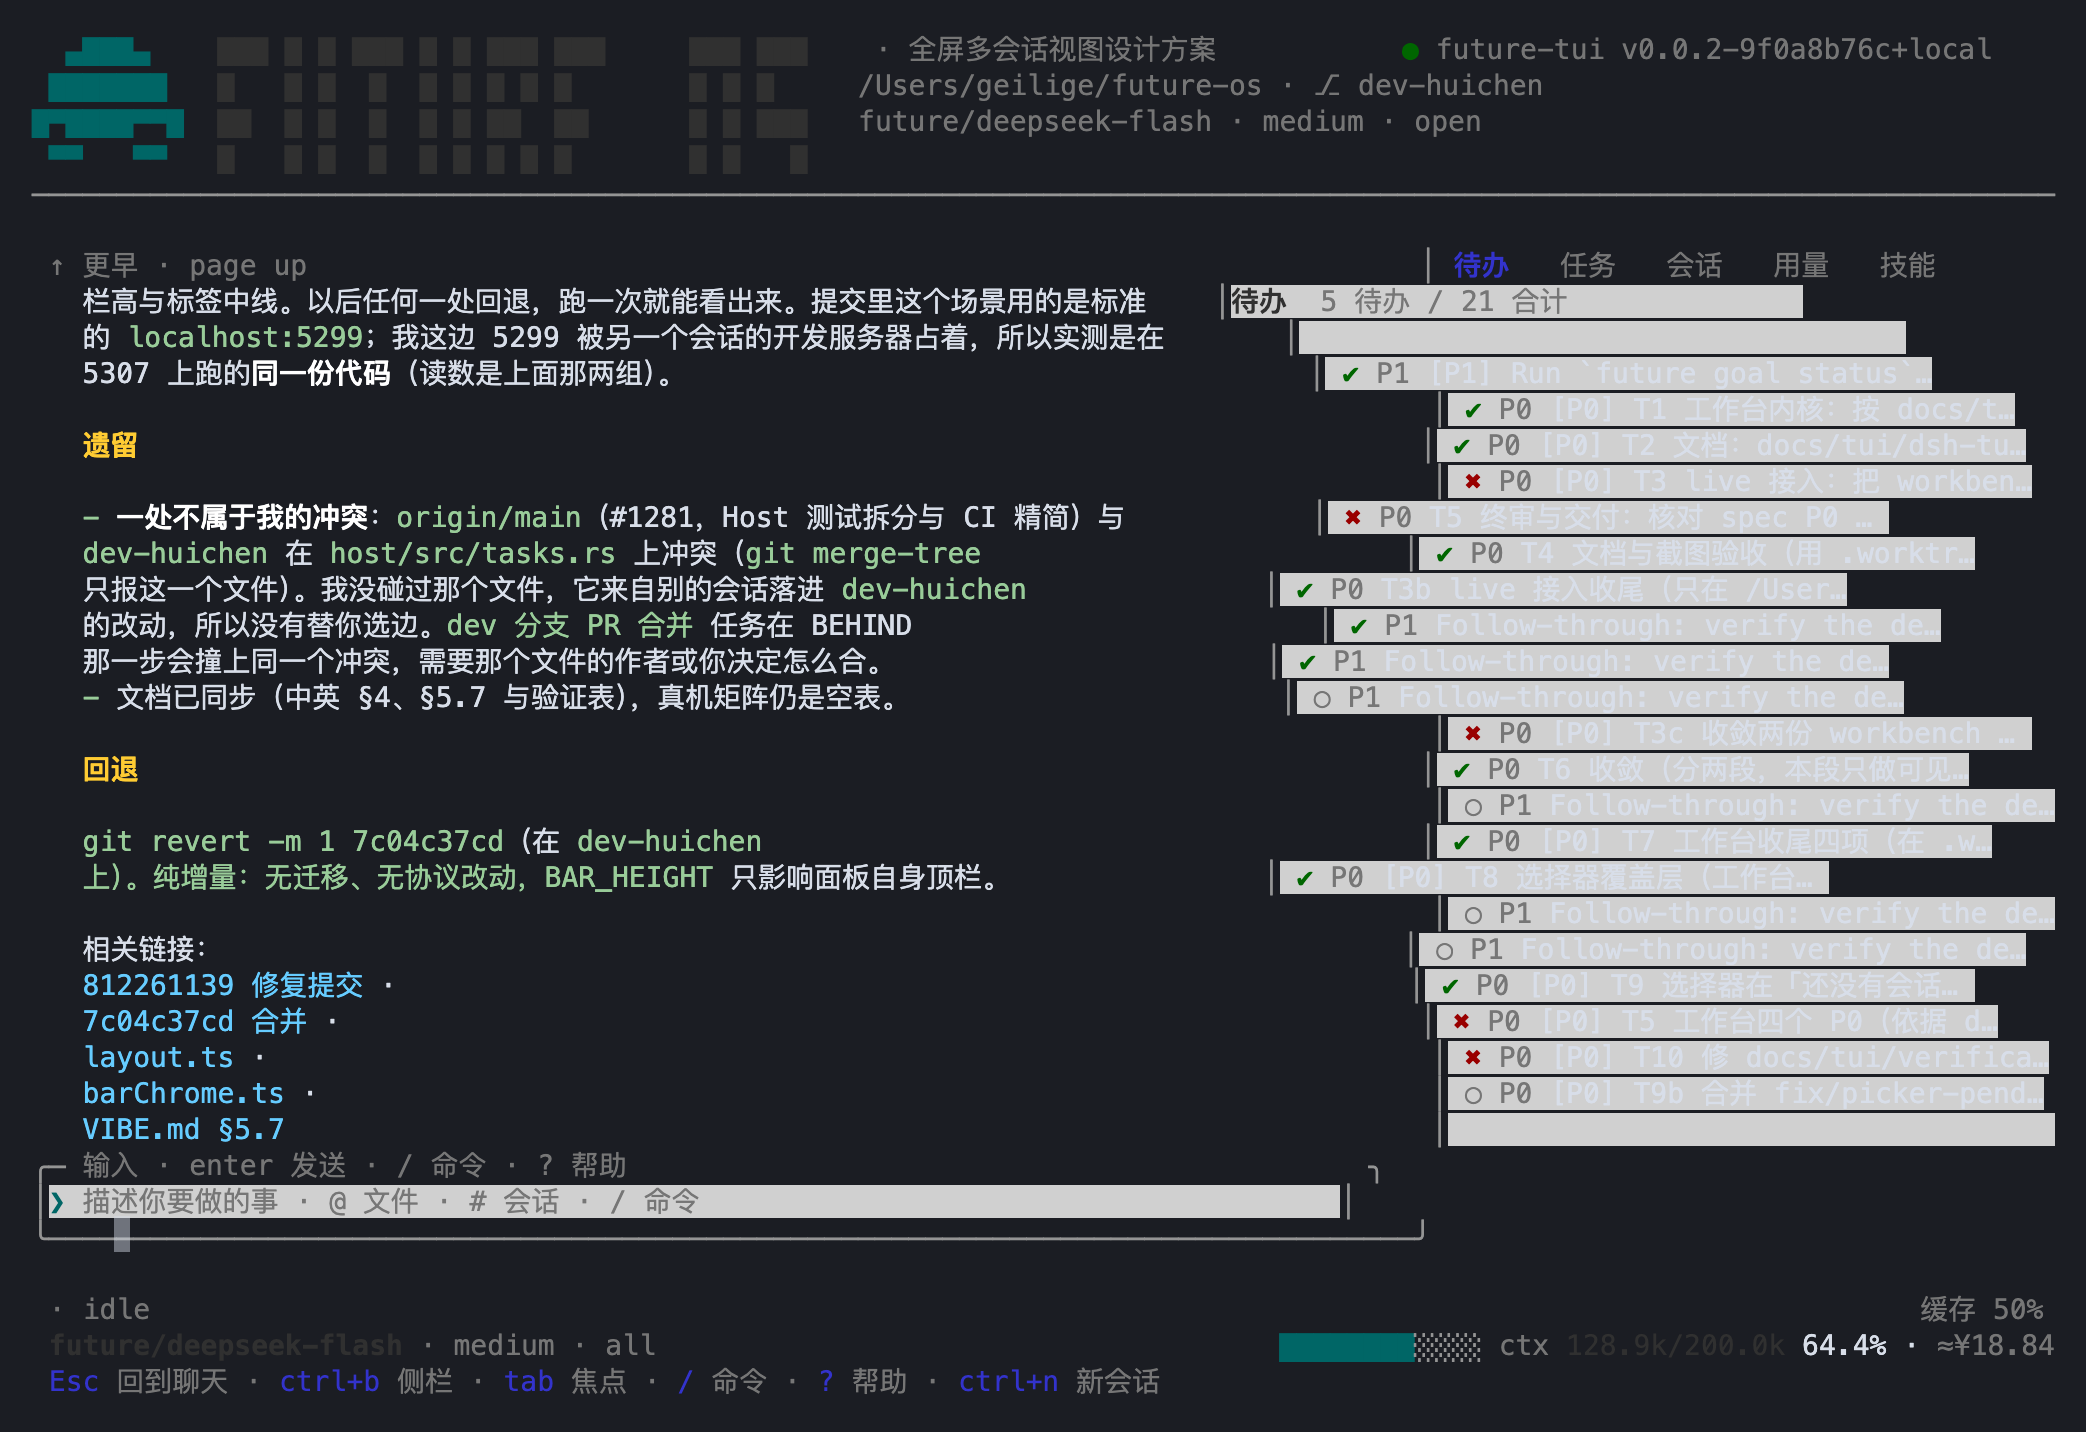
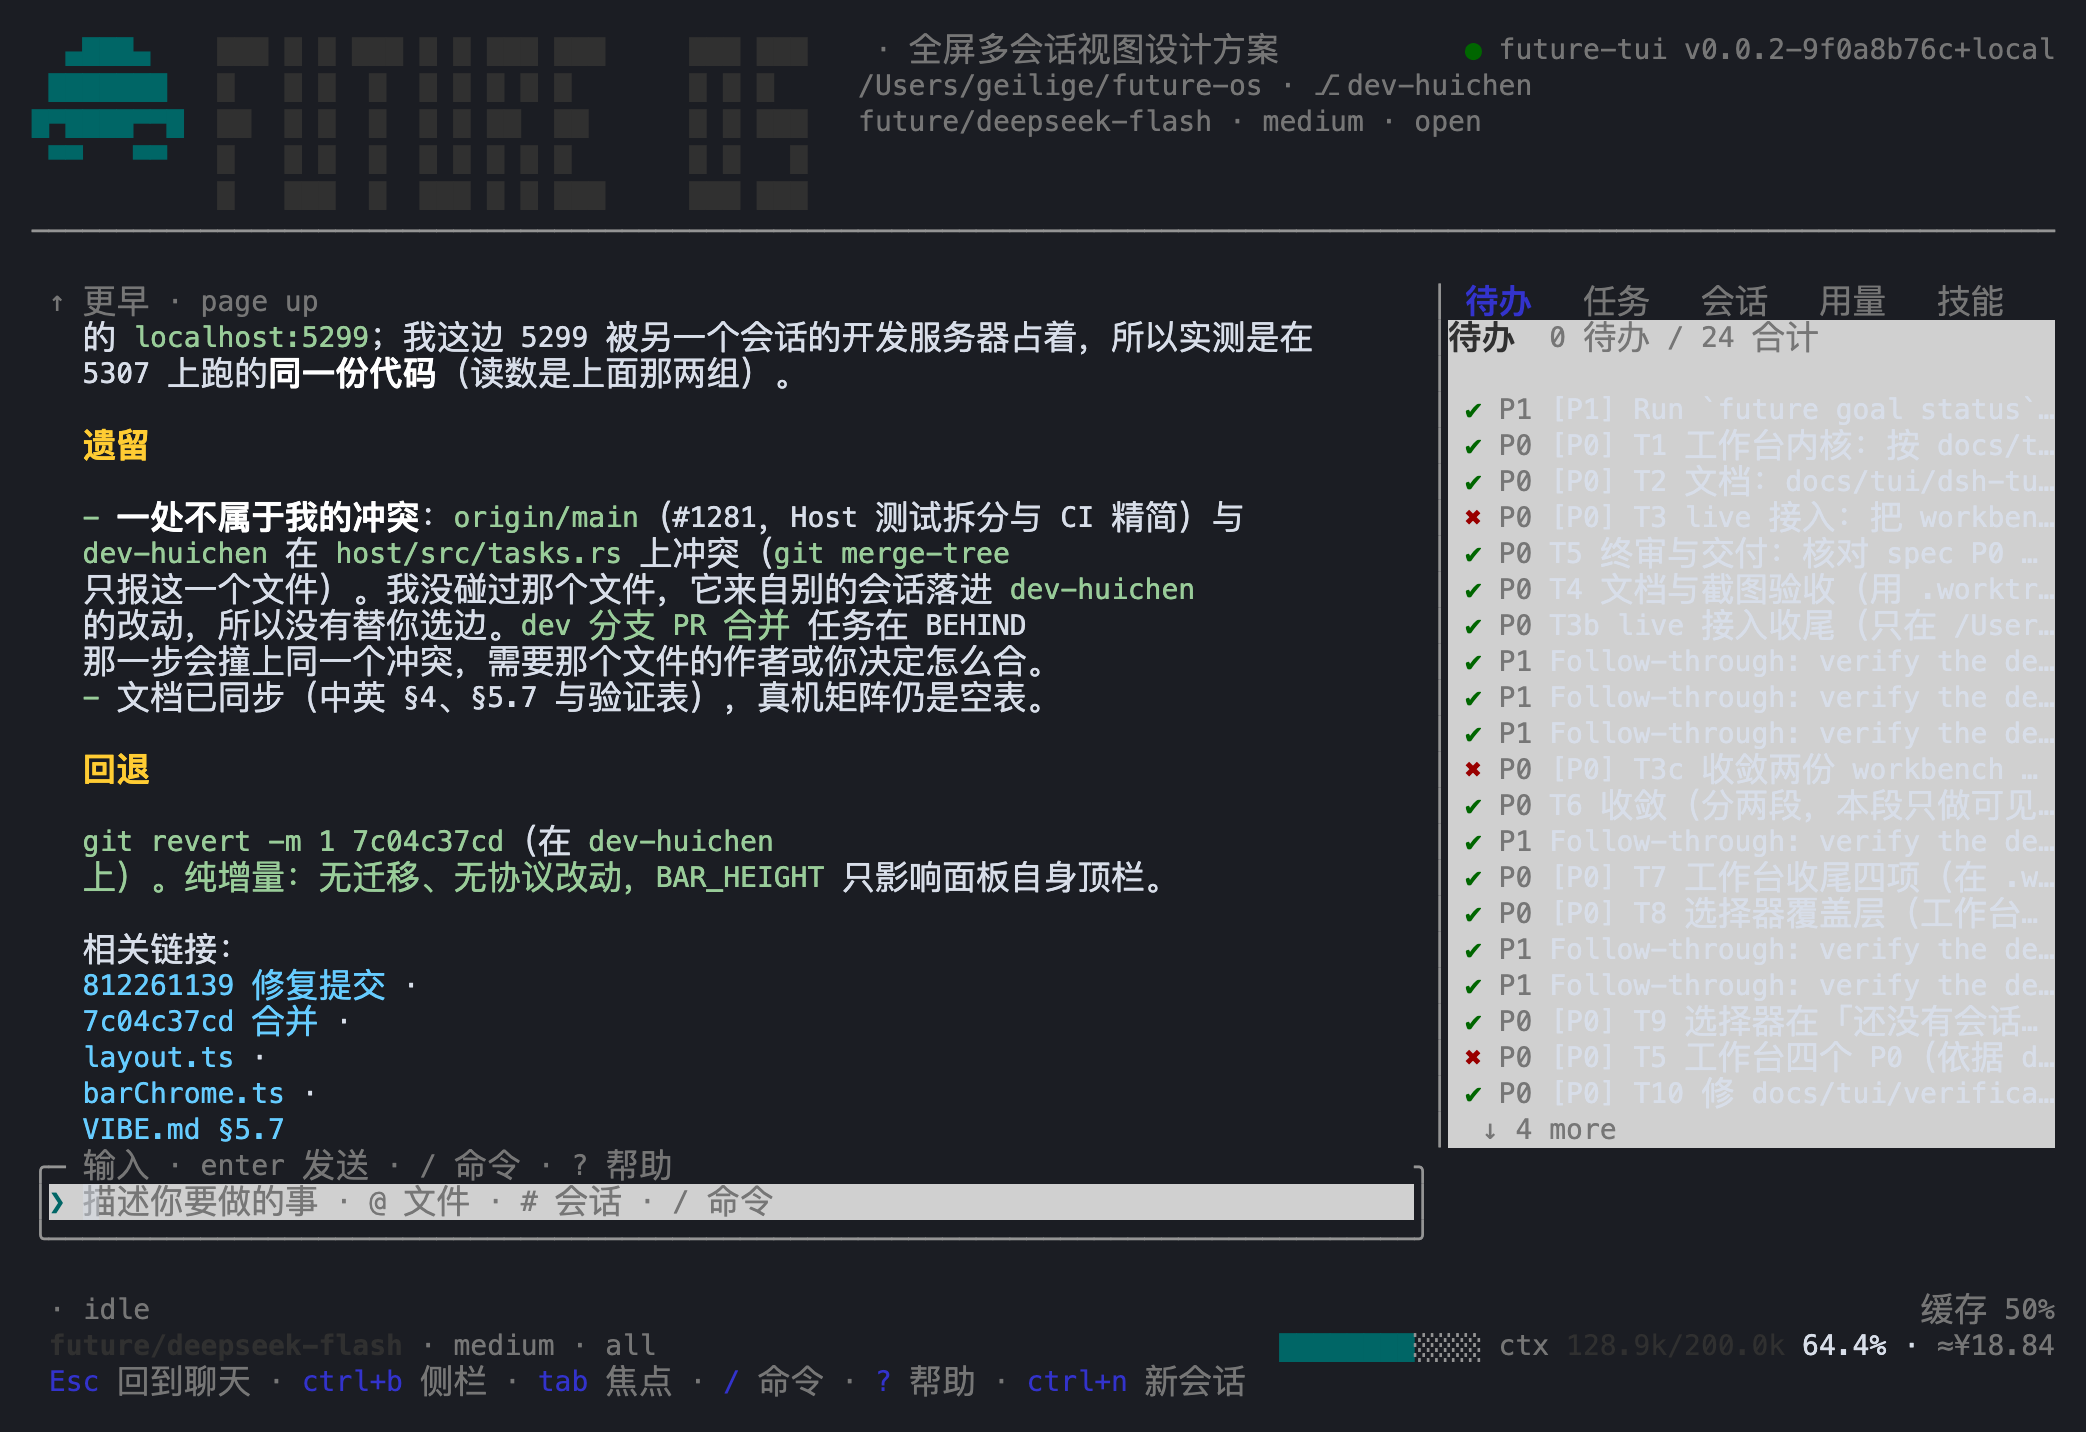
fix(screenshots): measure a wide cell over its two columns, and both directions
The alignment gate had two defects, one blocking and one silent.

Blocking: it measured every cell as one column wide, so a right-leaning
full-width glyph read as "no ink in its own cell". `（` sits on the right of its
em, and every live frame containing a Chinese parenthesis was refused — the four
P0 fixes could not be re-shot at all.

Silent: "every character cell has ink" cannot see a shift. A row pushed sideways
by a whole cell still leaves each character's box partly inked, so the gate said
"aligned" for a frame with a deliberately shifted row. It now also requires that
a cell the grid leaves blank carries no glyph, with the threshold measured on a
trusted frame (worst blank cell: 11%) and a negative control proving a one-cell
shift is caught.

Both rules are a pure function of the grid and the ink picture, so the self-test
pins them without a browser: the wide-span case, the shift, and a missing glyph.

All 19 frames in docs/tui/assets/ are re-shot with the fixed renderer, live
against an isolated agent; the previous set was rasterized before absolute
placement landed and carried the flowed-text skew. The three picker frames are
now reproducible scenarios (`picker-model`, `picker-theme`, `picker-sessions`)
instead of hand-made captures.

diff --git a/scripts/screenshots/tui_terminal.py b/scripts/screenshots/tui_terminal.py
@@ -253,6 +253,21 @@ def _cell_style(cell: Cell) -> tuple[str, str | None, bool]:
     return fg, bg, cell.bold
 
 
+def cell_box(cell: Cell, cw: float, columns_left: int) -> float:
+    """Width in px the glyph of `cell` occupies.
+
+    Two columns for a wide glyph — a terminal gives a hanzi both of them — and one
+    otherwise; a wide glyph in the last column can only have the one that is left.
+    This is the single definition of "how wide is this cell's box": the painter
+    and the alignment check both call it, so the picture and the check cannot
+    disagree about which pixels belong to a character.
+    """
+    span = 2 if cell.wide else 1
+    if span > columns_left:
+        span = columns_left
+    return cw * span
+
+
 def _to_html(grid: list[list[Cell]], cw: float, cols: int, cursor: tuple[int, int] | None = None) -> str:
     """Lay every cell out at the position the grid gives it.
 
@@ -298,7 +313,7 @@ def _to_html(grid: list[list[Cell]], cw: float, cols: int, cursor: tuple[int, in
                 col += 1
                 continue
             left = PAD + col * cw
-            box = cw * span
+            box = cell_box(cell, cw, cols - col)
             style = [
                 "position:absolute",
                 f"left:{left:.2f}px",
@@ -380,25 +395,43 @@ def verify_alignment(png: Path, cells: list[list[Cell]], cw: float, scale: float
     a cell the grid calls blank is *not* a failure: block glyphs in the logo
     overhang their advance box by a pixel or two, which is antialiasing, not a
     misplaced character.
+
+    A wide cell is measured over **both** columns it owns. Measuring the first
+    column alone is wrong in a way that only a right-leaning full-width glyph
+    shows: a hanzi inks across its whole two-column box and passes either way,
+    but `（` / `）` put their stroke on the *right* of the em, so a one-column box
+    reports "no ink" on a picture that is in fact correct. That false positive
+    blocked every live capture containing a Chinese parenthesis.
+
+    Both directions are checked, because "has ink" alone is nearly toothless: a
+    row pushed sideways by a whole cell still leaves each character's box
+    partly inked, so only the *other* direction — a run of blank cells that an
+    overflowing glyph inks — can see the shift. Measured: shifting one row by one
+    cell produced zero complaints from the one-sided rule.
     """
     from PIL import Image
 
     image = Image.open(png).convert("RGB")
+    fractions = _ink_fractions(image, cells, cw, scale)
+    return alignment_problems(cells, fractions)
+
+
+def _ink_fractions(image, cells, cw: float, scale: float) -> list[list[float]]:
+    """Fraction of each cell's own box that carries ink, row-major."""
     px = image.load()
     W, H = image.size
     bg = px[5, 5]
     rows = len(cells)
     cols = len(cells[0]) if cells else 0
-    problems: list[str] = []
+    out: list[list[float]] = []
     for r in range(rows):
         y0 = int((PAD + r * LINE_H) * scale)
         y1 = y0 + int(LINE_H * scale)
+        row: list[float] = []
         for c in range(cols):
             cell = cells[r][c]
-            if cell.ch in ("", " ") or (cell.bg is not None or cell.reverse):
-                continue
             x0 = int((PAD + c * cw) * scale)
-            x1 = int((PAD + (c + 1) * cw) * scale)
+            x1 = int((PAD + c * cw + cell_box(cell, cw, cols - c)) * scale)
             inked = total = 0
             for y in range(max(0, y0), min(H, y1)):
                 for x in range(max(0, x0), min(W, x1)):
@@ -406,8 +439,56 @@ def verify_alignment(png: Path, cells: list[list[Cell]], cw: float, scale: float
                     p = px[x, y]
                     if abs(p[0]-bg[0]) + abs(p[1]-bg[1]) + abs(p[2]-bg[2]) > 24:
                         inked += 1
-            if total and inked / total < 0.015:
-                problems.append(f"row {r} col {c}: {cell.ch!r} has no ink in its own cell")
+            row.append(inked / total if total else 0.0)
+        out.append(row)
+    return out
+
+
+# A cell the grid fills (a character, or a background that covers it) must carry
+# ink; below this it is blank where a glyph should be.
+MIN_INK = 0.015
+# A cell inside a run of blank cells that carries this much ink holds a glyph the
+# grid does not put there — a shifted row, not antialiasing. Measured on a trusted
+# 120x38 frame: the worst blank cell carries 11% (a block glyph's overhang), so the
+# line sits well above the noise and well below a glyph (a shifted one fills 40%+).
+MAX_INTRUSION = 0.30
+
+
+def alignment_problems(cells: list[list[Cell]], fractions: list[list[float]]) -> list[str]:
+    """The alignment rule, as a pure function of the grid and the ink picture.
+
+    Pure so the self-test can exercise it with a hand-made ink matrix: the rule is
+    what failed twice (a one-sided check, and a wide cell measured as one column),
+    and neither failure needed a browser to reproduce.
+    """
+    rows = len(cells)
+    cols = len(cells[0]) if cells else 0
+    problems: list[str] = []
+
+    def filled(c, r):
+        # The tail of a wide glyph is covered by that glyph's own two-column box,
+        # so it is neither "blank where a character should be" nor a place an
+        # intruding glyph can be detected in. This clause has to come first: the
+        # tail cell's own `ch` is empty, and reading that as blank is what made the
+        # intrusion rule fire on 306 correct cells.
+        if c > 0 and cells[r][c - 1].wide:
+            return True
+        cell = cells[r][c]
+        return cell.ch not in ("", " ") or cell.bg is not None or cell.reverse
+
+    for r in range(rows):
+        for c in range(cols):
+            cell = cells[r][c]
+            if filled(c, r) and cell.ch not in ("", " "):
+                if fractions[r][c] < MIN_INK:
+                    problems.append(f"row {r} col {c}: {cell.ch!r} has no ink in its own cell")
+                continue
+            if filled(c, r):
+                continue
+            if fractions[r][c] > MAX_INTRUSION:
+                problems.append(
+                    f"row {r} col {c}: blank in the grid, {fractions[r][c]:.0%} inked in the picture"
+                )
     return problems
 
 
@@ -521,6 +602,51 @@ def _self_test() -> int:
     # A wide cell sets its em to the box width, so the glyph fills both columns
     # instead of sitting narrow in a wide box with a gap after it.
     check("wide cell fills its box", "font-size:20.00px" in markup, True)
+
+    # The painter and the alignment check must agree on how wide a cell's box is,
+    # and that box is two columns for a wide glyph. `verify_alignment` used one
+    # column for every cell, which reported "no ink" for a correct picture whose
+    # glyph leans right — `（` sits on the right of its em, a hanzi inks across the
+    # whole box — and so refused every live frame containing a Chinese
+    # parenthesis. Both now call `cell_box`.
+    narrow, wide = Cell("a"), Cell("中")
+    wide.wide = True
+    check("narrow box is one cell", cell_box(narrow, 10.0, 5), 10.0)
+    check("wide box is two cells", cell_box(wide, 10.0, 5), 20.0)
+    check("wide box in the last column is one", cell_box(wide, 10.0, 1), 10.0)
+    # And the two-column box is what the verifier measures, not a one-column
+    # stripe: the ink of a right-leaning full-width glyph falls in the second
+    # half, which the old stripe never looked at.
+    grid = [[Cell("a"), wide, Cell("")]]
+    markup = _to_html(grid, 10.0, 3)
+    check("painter uses the same box", f"width:{cell_box(wide, 10.0, 2):.2f}px" in markup, True)
+
+    # The alignment rule, on a hand-made ink matrix (no browser): both failures it
+    # has had are pure logic, so they are unit-testable. Each value is the share of
+    # a cell's own box that carries ink — two columns wide for a wide glyph.
+    #   row 0/1: 'a' | '中' (wide) | its tail | 'b'
+    #   row 2:   'a' | ' '        | ' '      | 'b'   — blank run, where a shifted
+    #            glyph from a neighbouring row would land
+    g = [[Cell("a"), Cell("中"), Cell(""), Cell("b")],
+         [Cell("a"), Cell("中"), Cell(""), Cell("b")],
+         [Cell("a"), Cell(" "), Cell(" "), Cell("b")]]
+    g[0][1].wide = True
+    g[1][1].wide = True
+    ink = [[0.40, 0.50, 0.20, 0.40], [0.40, 0.50, 0.20, 0.40], [0.40, 0.10, 0.09, 0.40]]
+    check("a correct frame has no problems", alignment_problems(g, ink), [])
+    # A right-leaning full-width glyph: half of its two-column box is inked, which
+    # is a *low* fraction precisely because the box is two columns. The one-column
+    # stripe read that half as "no ink" and refused the frame.
+    ink_lean = [[0.40, 0.45, 0.30, 0.40], [0.40, 0.50, 0.20, 0.40], [0.40, 0.10, 0.09, 0.40]]
+    check("a wide cell is measured over both columns", alignment_problems(g, ink_lean), [])
+    # A glyph that lands in a blank cell (a row pushed sideways by one cell).
+    ink_shifted = [[0.40, 0.50, 0.20, 0.40], [0.40, 0.50, 0.20, 0.40], [0.40, 0.90, 0.09, 0.00]]
+    shifted = alignment_problems(g, ink_shifted)
+    check("a shifted row is caught", any("blank in the grid" in p for p in shifted), True)
+    # A character with no ink at all is still caught (the original rule).
+    ink_missing = [[0.40, 0.50, 0.20, 0.00], [0.40, 0.50, 0.20, 0.40], [0.40, 0.10, 0.09, 0.40]]
+    missing = alignment_problems(g, ink_missing)
+    check("a missing glyph is caught", any("has no ink" in p for p in missing), True)
 
     if problems:
         for problem in problems:

diff --git a/scripts/screenshots/capture.py b/scripts/screenshots/capture.py
@@ -1435,6 +1435,14 @@ TUI_SCENARIO_KEYS: dict[str, str] = {
     "light": "/theme\r\x1b[B\r",
     # `/new` detaches from the session without creating one: the launchpad.
     "launchpad": "/new\r",
+    # The three pickers share one overlay (`run.rs` intercepts these three verbs
+    # before `live::command` sees them). Each frame is the picker itself: the
+    # reasoning slider and provider groups, the six palettes, the session rows.
+    # Typed through the palette rather than as a bare command so the frame is the
+    # route a reader takes.
+    "picker-model": "/model\r",
+    "picker-theme": "/theme\r",
+    "picker-sessions": "/sessions\r",
     # `ctrl+b` on a terminal too narrow for the rail: the panel takes the body.
     "full-panel": "\x02",
     # A click that hands the keys back to the conversation, then three wheel-ups:

diff --git a/docs/guide/screenshots.zh-CN.md b/docs/guide/screenshots.zh-CN.md
@@ -174,7 +174,11 @@ tui/scripts/shot.sh drag 120x38 $PWD/docs/tui/assets/workbench-drag-fixed.png
 
 两次运行产出的 PNG 是逐字节相同的，这才让它能当评审证据用：有差异说明界面变了，而不是模型这次回答得不一样。两点限制照实说：字形是 Chrome 依据抓到的单元格画的，不是产生这些字节的那个终端画的；数据是脚本化的（和其他 mock 一样）——截图永远不是"真实用户会话"的证据。
 
-每个字符是按自己的格子绝对定位的，不是交给浏览器排文本流。这不是细节：在这套字体栈里，一个汉字实测前进 14px，而两列需要 16.9px；`。` 只有 7.2px。让浏览器排版，中文行就被压窄、整行后面的内容被拖左，而占满一格的边框笔画（`│`、`─`）不会动——于是画面**边缘看起来对齐，里面是歪的**。所以每次截图都会重新读自己的 PNG，只要有任何字符的墨迹不在自己的格子里，就拒绝写出这张图。
+每个字符是按自己的格子绝对定位的，不是交给浏览器排文本流。这不是细节：在这套字体栈里，一个汉字实测前进 14px，而两列需要 16.9px；`。` 只有 7.2px。让浏览器排版，中文行就被压窄、整行后面的内容被拖左，而占满一格的边框笔画（`│`、`─`）不会动——于是画面**边缘看起来对齐，里面是歪的**。
+
+每次截图都会重读自己的 PNG，按**两个方向**对照网格：网格说该有字的格子必须有着墨，网格说是空白的格子不得着墨。只查一个方向不算检查——整行整体偏一格的画面，每个字的框里仍会残留墨迹，第一版就是这样把歪图放过去的。宽字按它拥有的**两列**度量：只量一列会把 `（` 判成“没有墨”（它的笔画落在 em 的右侧），这个假阳性曾让每一张含中文括注的真实截图都被拒。
+
+渲染器修好不等于磁盘上的图修好了。`docs/tui/assets/` 必须在这个文件改动后重拍——绝对定位落地前提交的那 19 张图里，分隔条只有一半的行落在正确的那一列。
 
 ```bash
 python3 scripts/screenshots/tui_terminal.py --self-test   # 只验单元模型，不开浏览器

diff --git a/docs/guide/screenshots.md b/docs/guide/screenshots.md
@@ -261,8 +261,21 @@ not a detail: in this font stack a hanzi advances 14px where two columns need
 16.9px, and `。` advances 7.2px, so laying a row out as text squeezed every
 Chinese line and pulled the rest of the row left — while the one-cell border
 strokes stayed put, so the frame looked aligned at its edges and was wrong
-inside. Each capture therefore re-reads its own PNG and refuses to write it if
-any character's ink is missing from its own cell.
+inside.
+
+Each capture re-reads its own PNG and checks it against the grid in **both**
+directions: every cell the grid fills must carry ink, and no cell the grid leaves
+blank may carry a glyph. One direction alone is not a check — a row pushed
+sideways by a whole cell still leaves each character's box partly inked, which is
+how a misaligned frame passed the first version of this gate. A wide cell is
+measured over the two columns it owns: measuring one column reports "no ink" for
+`（`, whose stroke sits on the right of its em, and that false positive blocked
+every live frame containing a Chinese parenthesis.
+
+A renderer fix does not fix the frames already on disk. `docs/tui/assets/` must be
+re-shot after any change here — the 19 frames committed before the absolute
+placement landed had the divider on the right column in only half their body
+rows.
 
 ```bash
 python3 scripts/screenshots/tui_terminal.py --self-test   # the cell model, no browser
